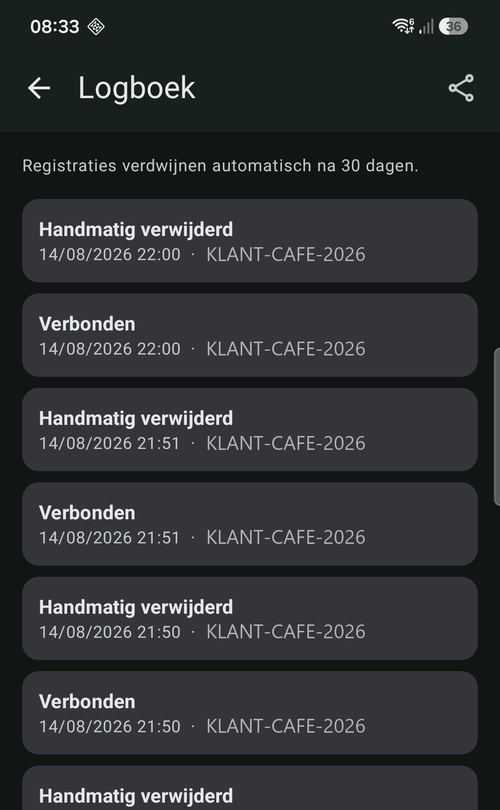
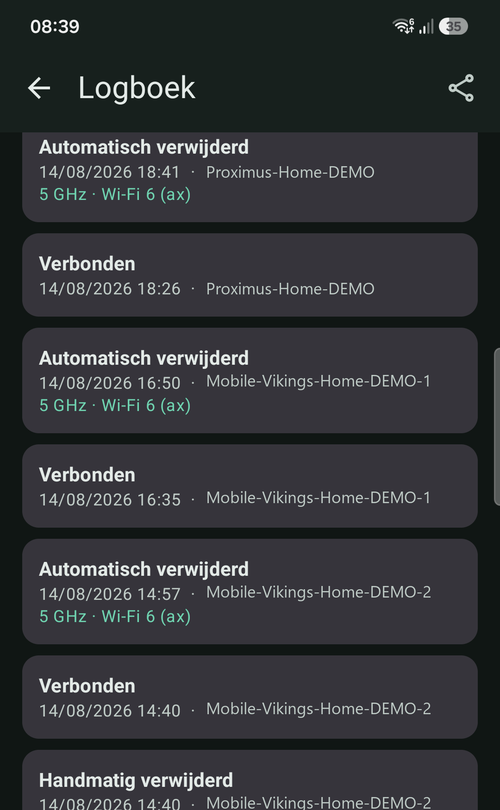
Beter logboek: automatische verwijderingen en de band erbij
Deze schermafbeelding toont een halve werkdag met vier klanten, waarbij de
timer zelf opruimt. Netwerknamen opnieuw vervangen.

Changed region(s): [[0.03, 0.1543, 0.96, 1.0], [0.18, 0.0, 0.21, 0.0617]]

diff --git a/index.html b/index.html
@@ -65,7 +65,7 @@
             <figcaption>instellingen</figcaption>
           </figure>
           <figure>
-            <img src="assets/img/netclean-logboek.png" alt="Logboek met per regel verbonden of verwijderd, een tijdstip en de netwerknaam" loading="lazy" width="500" height="810">
+            <img src="assets/img/netclean-logboek.png" alt="Logboek met per regel verbonden, automatisch verwijderd of handmatig verwijderd, met tijdstip, netwerknaam en de gebruikte band" loading="lazy" width="500" height="810">
             <figcaption>logboek — netwerknamen vervangen</figcaption>
           </figure>
         </div>
